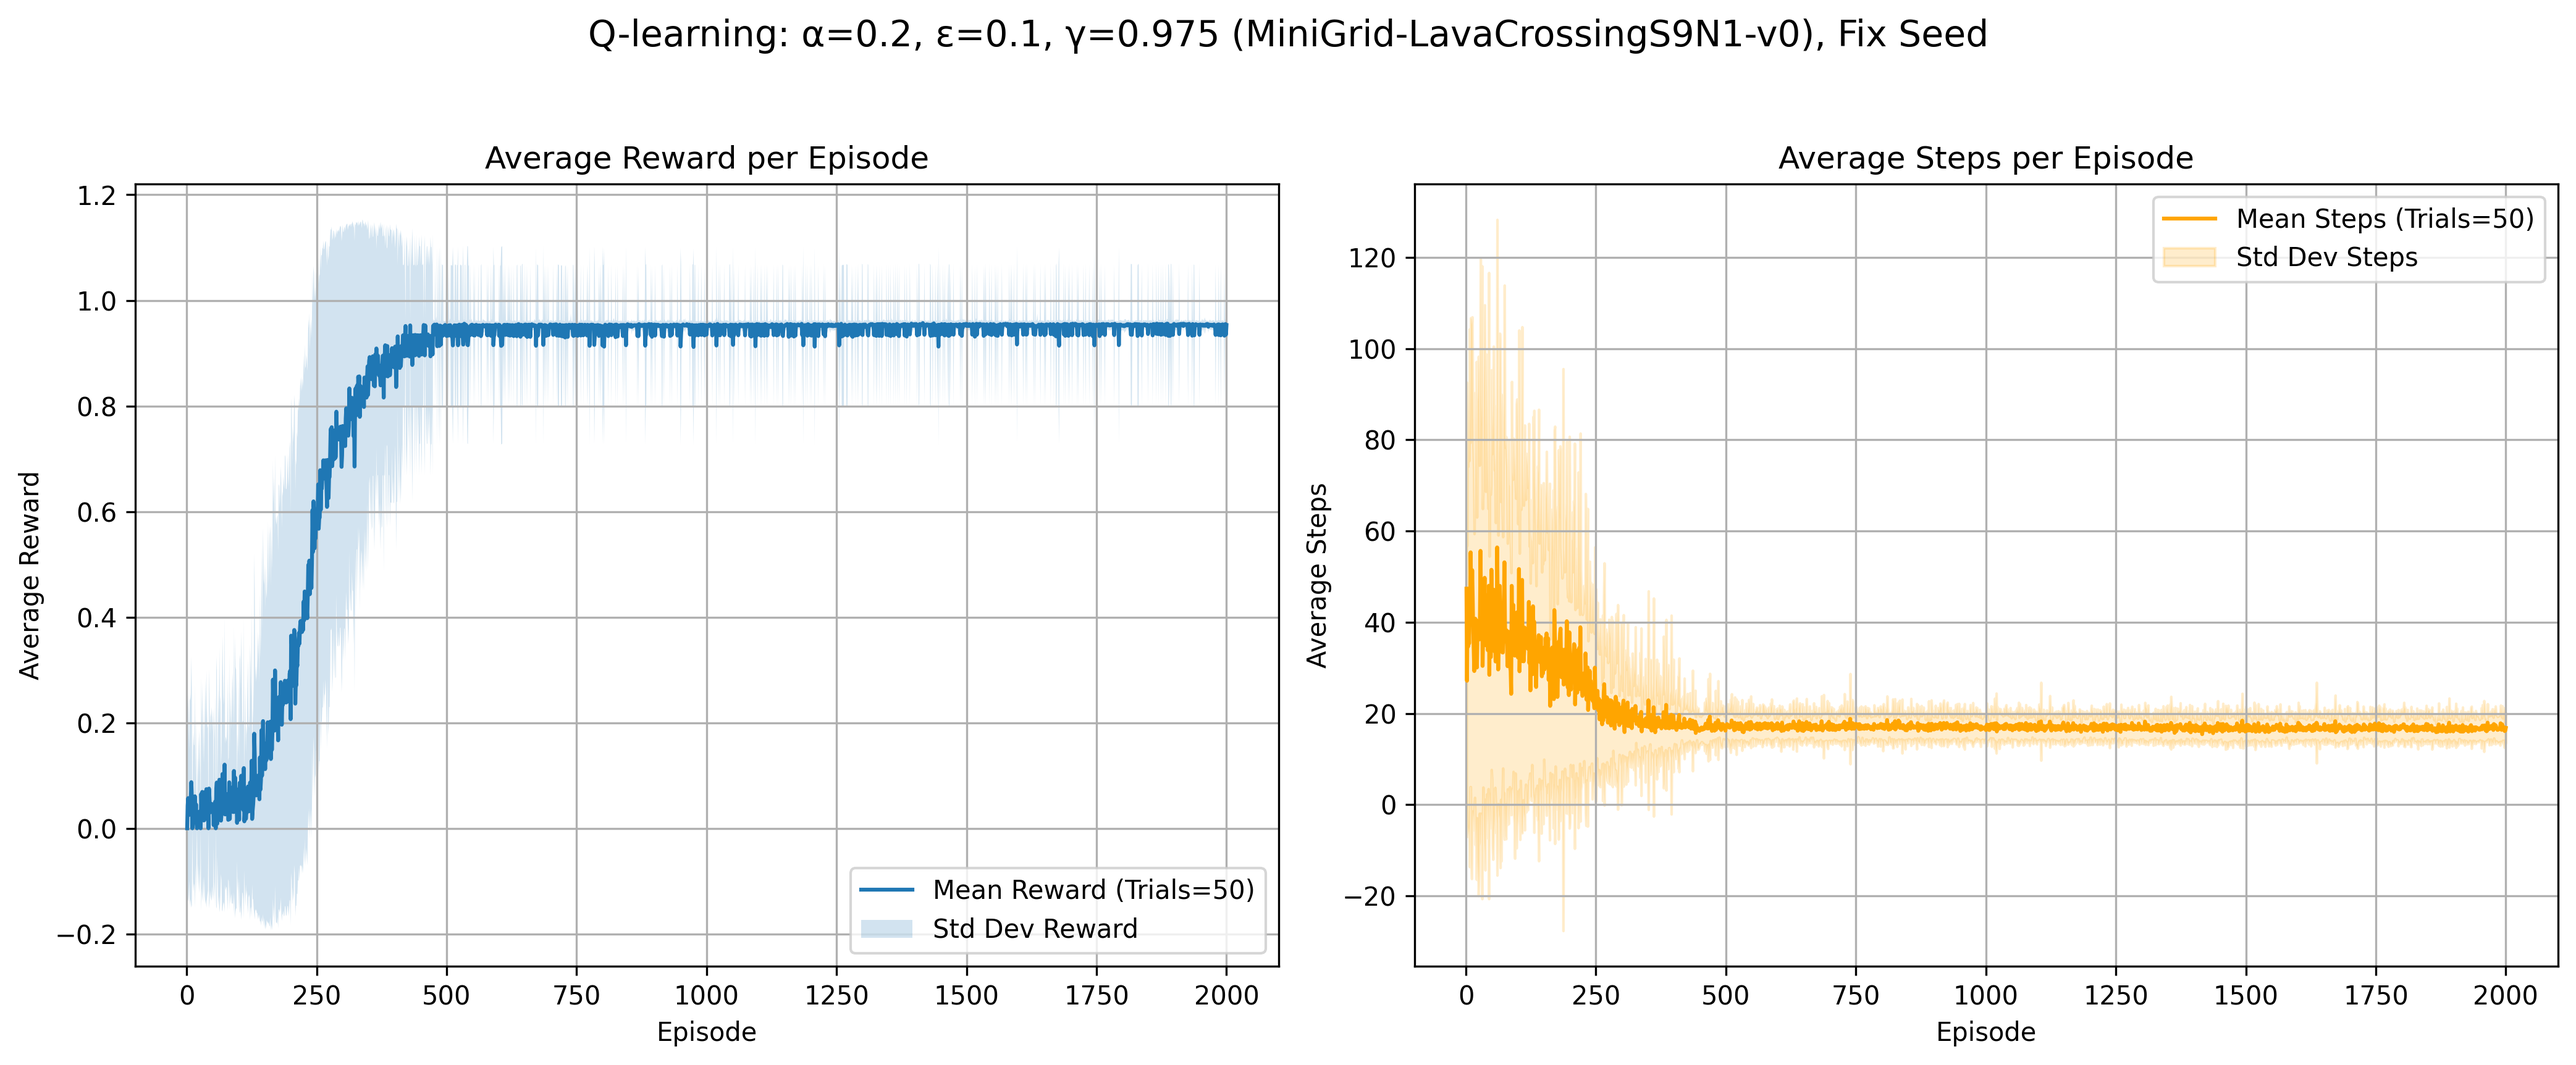
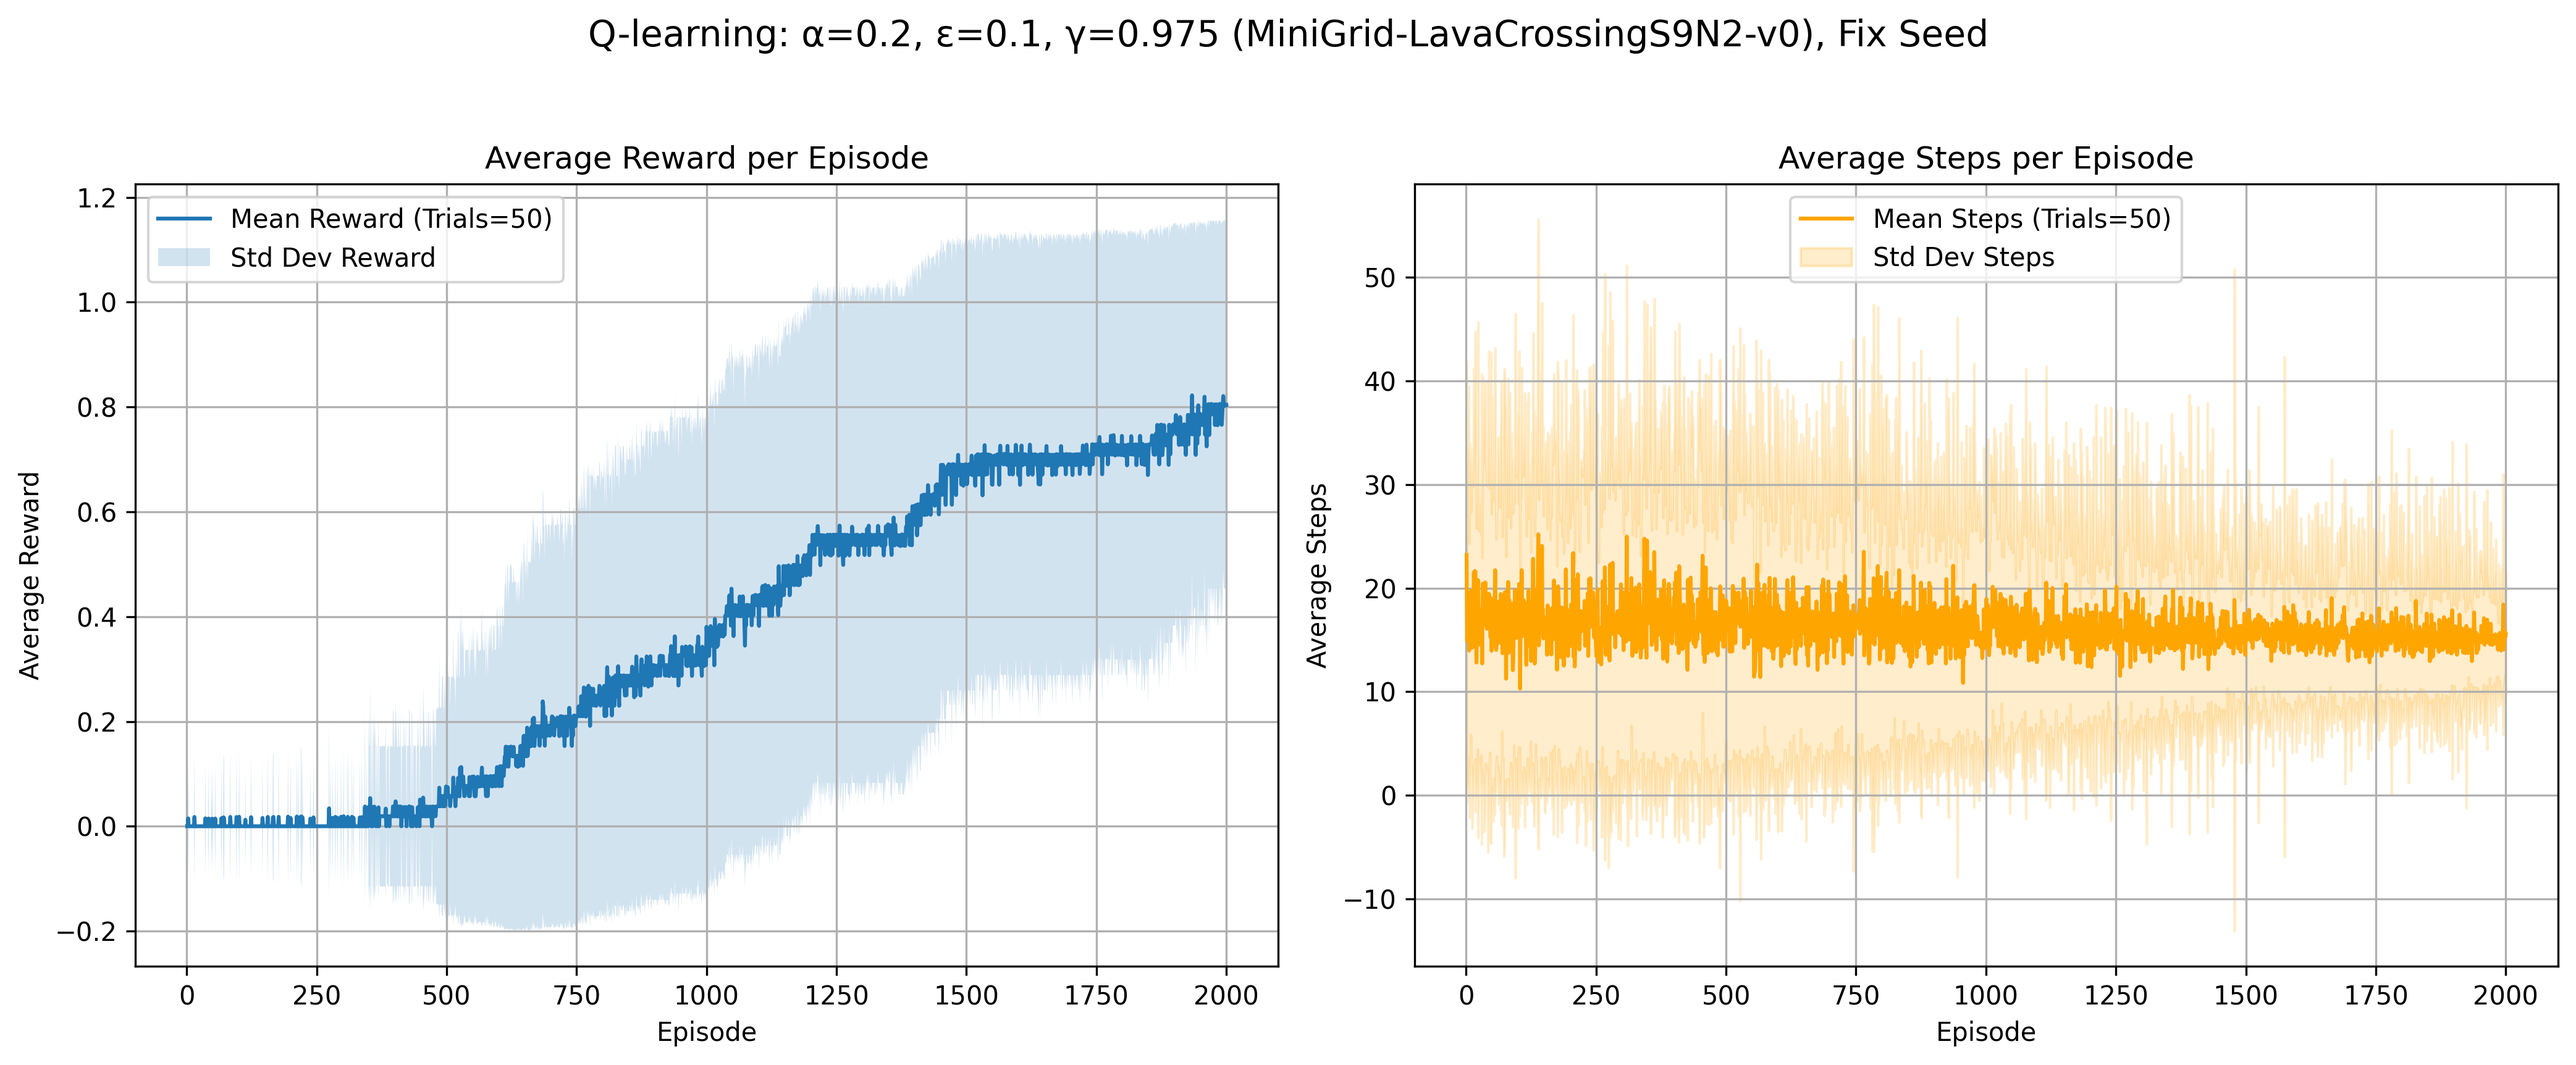
Test S9N2 Q-learn.

diff --git a/src/qlearn_v4_brandyn.py b/src/qlearn_v4_brandyn.py
@@ -10,7 +10,7 @@ from minigrid.wrappers import SymbolicObsWrapper
 SEED = 42
 
 MAX_TRIALS = 50
-N_EPISODES = 2_000
+N_EPISODES = 5_000
 MAX_STEPS = 100
 NUM_ACTIONS = 3
 
@@ -22,11 +22,6 @@ EPSILON = 0.1
 # 0 - Left : Turn Left
 # 1 - Right : Turn Right
 # 2 - Forward: Move Forward 
-
-# def encode_state(obs):
-#     # Flatten the symbolic image and convert to tuple
-#     flat_image = obs['image'].flatten()
-#     return tuple(flat_image.tolist())
 
 def encode_state(obs):
     return (tuple(obs['image'].flatten()), obs['direction'])
@@ -111,7 +106,7 @@ def qlearn(env, trial_num, trial_seed):
 if __name__ == "__main__":
     # env = gym.make("MiniGrid-LavaCrossingS11N5-v0")
     # env = gym.make("MiniGrid-LavaCrossingS9N1-v0") # DEBUG
-    env_name = "MiniGrid-LavaCrossingS9N1-v0"
+    env_name = "MiniGrid-LavaCrossingS9N2-v0"
     # env_name = "MiniGrid-LavaCrossingS11N5-v0"
     env = gym.make(env_name)
     MAX_STEPS = env.unwrapped.max_steps
